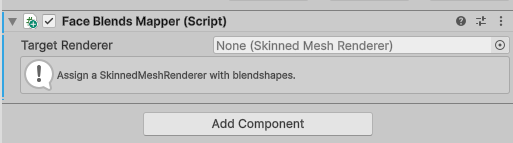
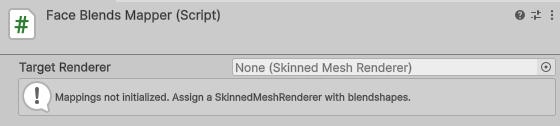
Illustrate the Audio Face Animator docs with 1.1 screenshots
Nine features documented in the 1.1 rewrite had no picture, and three of the
existing shots showed a UI that no longer exists: the mapper gained foldout
rows, a preset row, two Auto-Map buttons and a filter, and the Face Animator
gained the Emotions, Eyes, Blinking and Model Configuration sections.

Captured from the plugin project in Unity 6000.0.59f2 at the same scale, skin
and crop as the existing set, so the page reads as one series. The Play-mode
shot of the Generate buttons is deliberately separate from the Edit-mode
overview: Unity tints its interface darker while playing, and mixing the two
tints in one series looks like a mistake rather than a state.

The TensorRT window shot is cropped to the Diagnostic Log foldout on purpose —
the rest of that window shows local paths with a username in them.

diff --git a/audio-face-animator/docs/index.md b/audio-face-animator/docs/index.md
@@ -110,7 +110,7 @@ Two components: a **Face Blends Mapper** on each face renderer, and one
 
 Add it and assign your face `SkinnedMeshRenderer` to **Target Renderer**.
 
-![The Face Blends Mapper component with no renderer assigned, showing the "Assign a SkinnedMeshRenderer with blendshapes" notice](/audio-face-animator/docs/img/face-blends-mapper-empty.png)
+![The Face Blends Mapper component with no Target Renderer assigned, showing the notice "Mappings not initialized. Assign a SkinnedMeshRenderer with blendshapes."](/audio-face-animator/docs/img/face-blends-mapper-empty.png)
 
 It immediately creates all 52 ARKit rows and matches them against the mesh's
 blendshapes — ignoring case, spaces and underscores, and accepting prefixed names
@@ -120,7 +120,7 @@ could not match.
 **Add one mapper per face renderer** (head, teeth, tongue and eyes are often
 separate). The three shipped prefabs carry five each.
 
-![The Face Blends Mapper after auto-mapping, showing ARKit shapes matched to mesh blendshapes with weight sliders](/audio-face-animator/docs/img/face-blends-mapper-mapped.png)
+![The Face Blends Mapper after auto-mapping: the Preset row with Save, Load and Save As, both Auto-Map buttons, the Filter box, and the first ARKit rows matched to mesh blendshapes with their max-weight sliders. Eye Blink Left carries a +1 badge for its second blendshape target, Jaw Open a 1b badge for a bone target](/audio-face-animator/docs/img/face-blends-mapper-mapped.png)
 
 Matching is deliberately generous, so read down the list once. A **Filter** box
 narrows the 52 rows while you work, and each row expands to show everything it
@@ -137,6 +137,8 @@ drives:
   generating anything. The quickest proof that a row is wired correctly.
   Collapsing the row, or selecting another object, returns the face to rest.
 
+![One ARKit row expanded: a Blendshapes list with two targets, eyeBlinkLeft at max weight 100 and eyeSquintLeft at 60, an Add blendshape target button, an empty Bones section, and the row's own Preview slider](/audio-face-animator/docs/img/face-blends-mapper-row-expanded.png)
+
 **Auto-Map (fill empty)** touches only unmapped rows; **Auto-Map (overwrite all)**
 redoes everything, discarding manual edits. Several rows may point at the same
 mesh blendshape — their contributions are summed and clamped, so nothing is lost.
@@ -148,6 +150,8 @@ cannot do without. Check those first.
 
 For a rig whose jaw, lips or brows are bones, expand the row and press **Add bone
 target**.
+
+![The Bones block of the Jaw Open row: a Bone field holding a transform, the captured rest pose with a Re-capture rest button, a Rotation (deg) delta of 14 degrees on X, a zero Position offset, an Influence slider at 1, and a Capture delta from current pose button](/audio-face-animator/docs/img/face-blends-mapper-bone-target.png)
 
 Assign the **Bone** and its current local pose is captured as the rest pose
 immediately — so do this with the rig neutral, or press **Re-capture rest**
@@ -189,7 +193,7 @@ not move.
 
 ## Generate animation in Editor
 
-![The Face Animator component in the Inspector, with Model, Blends Mappers, Audio Clip and the Generate, Play and Stop buttons](/audio-face-animator/docs/img/face-animator-inspector.png)
+![The Face Animator component in the Inspector: Model Type, Blendshapes Configuration, Model Configuration, Eyes, Blinking, and Animation Playback with an Audio Clip and an Emotion Preset assigned. Outside Play mode a notice reads "Enter Play Mode to generate and play animation" and the Generate, Play and Stop buttons are disabled](/audio-face-animator/docs/img/face-animator-inspector.png)
 
 **Model Type** — which Audio2Face-3D model generates the animation: **Claire**,
 **James** or **Mark**. Each was trained on a different performer and produces a
@@ -212,6 +216,8 @@ logging progress to the console. Changing the AudioClip discards the generated
 animation; changing the Model Type does not, so regenerate to hear it.
 
 ### Saving an AnimationClip
+
+![The same component in Play mode after a successful generation: Generate and Play are enabled, Stop is disabled, and a Create AnimationClip button has appeared below them. Unity tints its interface slightly darker in Play mode](/audio-face-animator/docs/img/face-animator-generate-playmode.png)
 
 Once animation exists, a **Create AnimationClip** button appears. It writes a
 standard Unity `AnimationClip`, which must be saved **inside your project's
@@ -238,6 +244,8 @@ Animator or Timeline on any platform Unity builds for. Three things to know:
 
 ### The sample scene
 
+![The sample scene running: a head on a dark background, with a model dropdown set to James, Generate, Play and Stop buttons down the left side, and a Browse button in the top right](/audio-face-animator/docs/img/sample-scene.png)
+
 `Assets/DevEloop/AudioFaceAnimator/Scenes/AudioFaceAnimator.unity` has all three
 characters set up, a model selector, generation controls and a file browser for
 loading a WAV from disk. It is the quickest way to confirm the plugin works on
@@ -252,6 +260,8 @@ Press **Create…** next to the **Emotions** field on the Face Animator: it save
 new preset asset and assigns it in one step. An existing preset can be dropped
 into the same field, and presets can also be made from *Assets → Create →
 DevEloop → Audio Face Animator → Emotion Preset*.
+
+![The Emotion Preset inspector: three segments, amazement, cheekiness and joy, each with a share of 1 and an intensity of 1; a Crossfade of 0.25 seconds; a Preview Clip length of 5 seconds; and a coloured bar underneath giving each emotion 33.3 percent, or 1.67 seconds, of the clip](/audio-face-animator/docs/img/emotion-preset-inspector.png)
 
 A preset is an ordered list of segments, read left to right across the clip:
 
@@ -315,6 +325,8 @@ blendshapes — without them there is no blink and no warning either. `eyeSquint
 and `eyeWide*` are used as well when mapped, so the lower lid follows and a wide
 eye does not fight a closed lid.
 
+![The Blinking section of the Face Animator: Enabled ticked, Min and Max Interval of 2 and 6 seconds, Close, Hold and Open Duration of 0.07, 0.02 and 0.18, Amplitude 1, Squint Amount 0.2, and a Random Seed of 0](/audio-face-animator/docs/img/face-animator-blinking.png)
+
 <div class="table-scroll" markdown="1">
 
 | Field | Default | What it does |
@@ -347,6 +359,8 @@ turning, change the axis; if it moves the right way but reversed, set that eye's
 **Pitch Scale** or **Yaw Scale** to −1. Both eyes have independent axes and
 scales, which is what a mirrored rig needs. **Stop preview** returns them to rest.
 
+![The Eyes Rotation Mapper component: Right Eye and Left Eye, each with a bone, a captured rest rotation, and its own pitch and yaw axes and scales; a Response group with Rotation Strength 1, Gaze Symmetry 1, pitch and yaw limits of minus 25 to 25 degrees and Smoothing 0.03; a Look At group pointing at the Main Camera; and a Preview group with Pitch and Yaw sliders and a Stop preview button](/audio-face-animator/docs/img/eyes-rotation-mapper.png)
+
 <div class="table-scroll" markdown="1">
 
 | Field | Default | What it does |
@@ -375,6 +389,8 @@ When the animation is close but too soft, too strong or too twitchy, tick
 `model_config_<Model Type>.json` in StreamingAssets and start being sent to the
 engine, so generation continues unchanged until you actually move something.
 Change one parameter at a time and regenerate.
+
+![The Model Configuration section with Override Model Config ticked, so the Model Config parameters are editable: Input Strength, a Skin group of smoothing and strength sliders, an Eyelids and Lips group, an Eyes group with the gaze and saccade values, and a Reset to Model Defaults button](/audio-face-animator/docs/img/face-animator-model-config.png)
 
 <div class="table-scroll" markdown="1">
 
@@ -594,6 +610,8 @@ When the console is not conclusive, the plugin can write its own and the native
 SDK's output to a file — the only way to diagnose a failure on someone else's
 machine, since the Unity console never sees what the SDK prints and a player
 build has nowhere to put it. Off by default.
+
+![The Diagnostic Log foldout in the TensorRT Engine window: a note on what the log contains, an unticked "Write a log file" checkbox, a Level dropdown set to Debug, the current log file path, and Change and Show buttons](/audio-face-animator/docs/img/tensorrt-diagnostic-log.png)
 
 **In the Editor**, open **Tools → AudioFaceAnimator → Setup TensorRT Engine** and
 expand **Diagnostic Log**. Tick *Write a log file* and pick a *Level* — `Debug`
